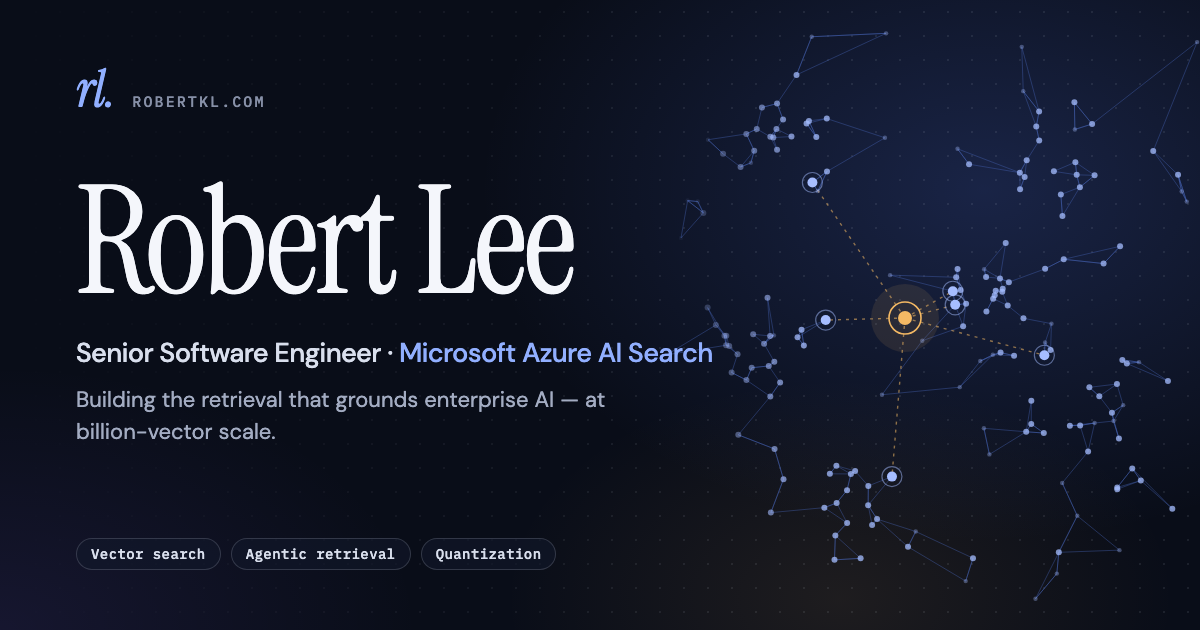
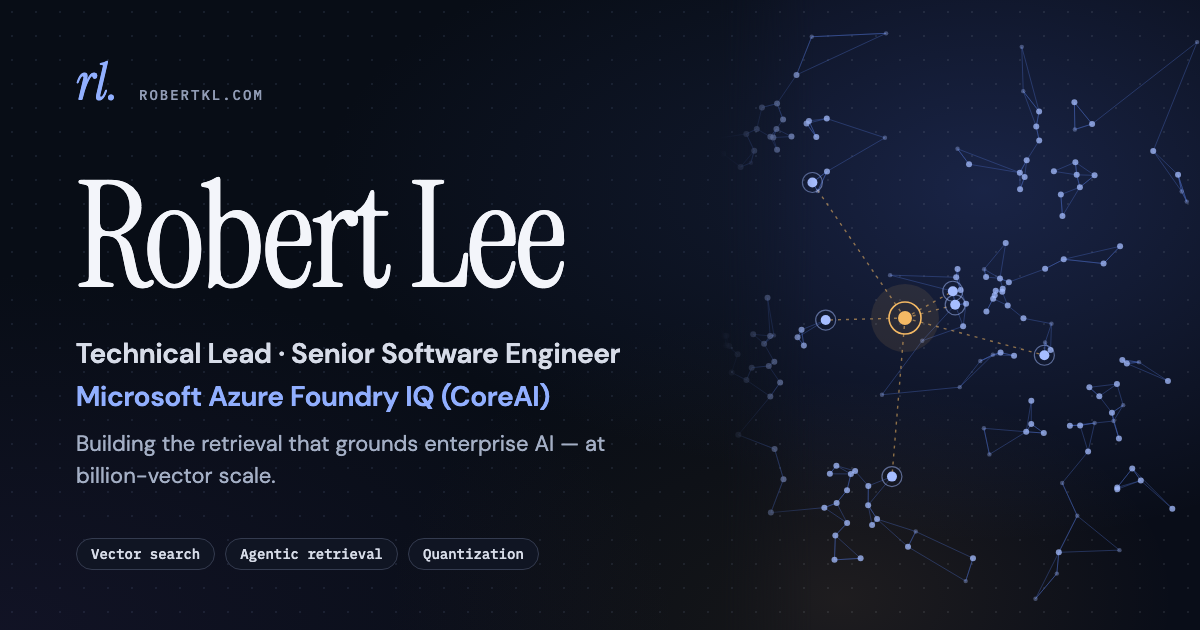
update

diff --git a/chat-content.js b/chat-content.js
@@ -31,52 +31,52 @@ window.HeroChatContent = (function () {
   var VARIANTS = [
     {
       thought: "Lead with technical leadership and vector-search diversity's pre-shipping performance gains. Keep those distinct from quantization's workload-dependent customer savings, and connect both to research-to-production delivery of agentic filter and boost generation.",
-      answer: "Hi! I'm Robert, a Senior Software Engineer on Microsoft Azure AI Search. I'm the technical lead for a team of six engineers and scientists delivering vector-search diversity, with 4.68\u00d7 better latency and 85.6% less memory before shipping. I also led agentic-retrieval filter and boost generation into production and drove vector quantization to general availability, delivering 8\u201332\u00d7 customer cost savings depending on the workload.",
+      answer: "Hi! I'm Robert, a Senior Software Engineer at Microsoft Azure Foundry IQ (CoreAI). I'm the technical lead for a team of six engineers and scientists delivering vector-search diversity, with 4.68\u00d7 better latency and 85.6% less memory before shipping. I also led agentic-retrieval filter and boost generation into production and drove vector quantization to general availability, delivering 8\u201332\u00d7 customer cost savings depending on the workload.",
       docs: ['Vector diversity capability', 'Team technical leadership', 'Filter generation', 'Lucene boosts', 'Scalar quantization']
     },
     {
       thought: "Connect vector search and HNSW graph-search engineering to relevance and production performance. Explain current search-diversity work through result coverage, and connect shipped natural-language filters and binary quantization to customer capabilities and cost.",
-      answer: "Hi, I'm Robert, a Senior Software Engineer on Microsoft Azure AI Search. My work spans vector search and HNSW graph search, with a focus on relevance, performance, and production scale. I lead technical delivery of vector-search diversity to improve result coverage, led natural-language filter generation into production, and helped lower search costs through vector quantization.",
+      answer: "Hi, I'm Robert, a Senior Software Engineer at Microsoft Azure Foundry IQ (CoreAI). My work spans vector search and HNSW graph search, with a focus on relevance, performance, and production scale. I lead technical delivery of vector-search diversity to improve result coverage, led natural-language filter generation into production, and helped lower search costs through vector quantization.",
       docs: ['HNSW graph search', 'Redundancy reduction', 'Filter generation', 'Binary quantization']
     },
     {
       thought: "Make technical leadership concrete: team size, leadership buy-in, cross-org alignment, greenfield architecture, and investment decisions. Pair vector-search diversity ownership with research-to-production delivery of agentic filter and boost generation.",
-      answer: "Hi, I'm Robert, a Senior Software Engineer on Microsoft Azure AI Search. I'm the technical lead for a team of six engineers and scientists delivering vector-search diversity. I own technical vision and end-to-end delivery, from leadership buy-in and cross-org alignment to greenfield distributed architecture and technical investment decisions. I also led agentic-retrieval filter and boost generation from research into production.",
+      answer: "Hi, I'm Robert, a Senior Software Engineer at Microsoft Azure Foundry IQ (CoreAI). I'm the technical lead for a team of six engineers and scientists delivering vector-search diversity. I own technical vision and end-to-end delivery, from leadership buy-in and cross-org alignment to greenfield distributed architecture and technical investment decisions. I also led agentic-retrieval filter and boost generation from research into production.",
       docs: ['Team technical leadership', 'Distributed execution', 'Filter generation', 'Lucene boosts']
     },
     {
       thought: "Lead with quantization's shipped cost and latency impact, qualified by workload. Keep preview-to-general-availability ownership explicit, then connect that delivery record to technical leadership for the current vector-search diversity effort.",
-      answer: "Hi, I'm Robert, a Senior Software Engineer on Microsoft Azure AI Search. I drove vector quantization from preview to general availability, delivering 8\u201332\u00d7 customer cost savings and up to 20\u00d7 lower latency depending on the workload. Today I'm the technical lead for a team of six engineers and scientists delivering vector-search diversity to improve result coverage and reduce redundancy.",
+      answer: "Hi, I'm Robert, a Senior Software Engineer at Microsoft Azure Foundry IQ (CoreAI). I drove vector quantization from preview to general availability, delivering 8\u201332\u00d7 customer cost savings and up to 20\u00d7 lower latency depending on the workload. Today I'm the technical lead for a team of six engineers and scientists delivering vector-search diversity to improve result coverage and reduce redundancy.",
       docs: ['Scalar quantization', 'Binary quantization', 'Team technical leadership', 'Redundancy reduction']
     },
     {
       thought: "Show systems depth across HNSW graph search, SIMD distance kernels, billions of embeddings, and distributed algorithm design. Preserve team attribution for broad adoption, and name the seven innovations and production constraints without inventing their internals.",
-      answer: "Hi, I'm Robert, a Senior Software Engineer on Microsoft Azure AI Search. My work spans HNSW graph search and SIMD-optimized vector-distance kernels, helping scale search across billions of embeddings. For vector-search diversity, I rearchitected a state-of-the-art research algorithm for distributed execution and drove seven targeted innovations for hyperscalability, durability, corpus drift, availability, and performance.",
+      answer: "Hi, I'm Robert, a Senior Software Engineer at Microsoft Azure Foundry IQ (CoreAI). My work spans HNSW graph search and SIMD-optimized vector-distance kernels, helping scale search across billions of embeddings. For vector-search diversity, I rearchitected a state-of-the-art research algorithm for distributed execution and drove seven targeted innovations for hyperscalability, durability, corpus drift, availability, and performance.",
       docs: ['HNSW graph search', 'SIMD distance', 'Vector search at scale', 'Distributed execution']
     },
     {
       thought: "Connect governed enterprise grounding and filter and boost generation to workload benchmarking. Name both agentic retrieval and diversity-aware search in the serverless billing scope, and keep the 80% memory reduction qualified to key paths.",
-      answer: "Hi, I'm Robert, a Senior Software Engineer on Microsoft Azure AI Search. I ground agents in governed enterprise knowledge and led filter and boost generation into production. I also architected benchmarks covering CPU, memory, and throughput to establish the serverless billing formula for agentic retrieval and diversity-aware search, reducing memory by 80% on key paths.",
+      answer: "Hi, I'm Robert, a Senior Software Engineer at Microsoft Azure Foundry IQ (CoreAI). I ground agents in governed enterprise knowledge and led filter and boost generation into production. I also architected benchmarks covering CPU, memory, and throughput to establish the serverless billing formula for agentic retrieval and diversity-aware search, reducing memory by 80% on key paths.",
       docs: ['RAG grounding', 'Filter generation', 'Lucene boosts', 'Workload benchmarks', 'Billing model']
     },
     {
       thought: "Use research to production as the connecting thread. Vector-search diversity preserved algorithmic strengths under distributed execution; agentic filter generation bounded an unbounded problem and used production evidence to align teams.",
-      answer: "Hi, I'm Robert, a Senior Software Engineer on Microsoft Azure AI Search. I turn retrieval research into production systems. For vector-search diversity, I rearchitected a research algorithm for distributed execution while preserving its strengths. For agentic retrieval, I reformulated unbounded filter synthesis as a bounded, verifiable operator set, demonstrated real-workload coverage through production analysis, and brought research and product teams to consensus.",
+      answer: "Hi, I'm Robert, a Senior Software Engineer at Microsoft Azure Foundry IQ (CoreAI). I turn retrieval research into production systems. For vector-search diversity, I rearchitected a research algorithm for distributed execution while preserving its strengths. For agentic retrieval, I reformulated unbounded filter synthesis as a bounded, verifiable operator set, demonstrated real-workload coverage through production analysis, and brought research and product teams to consensus.",
       docs: ['Vector diversity capability', 'Distributed execution', 'Bounded operator set', 'Filter generation']
     },
     {
       thought: "Show end-to-end ownership through vector-search diversity leadership, a shared core that enabled three engineers to work in parallel, and benchmarking that established serverless billing for two retrieval capabilities.",
-      answer: "Hi, I'm Robert, a Senior Software Engineer on Microsoft Azure AI Search. I'm the technical lead for a team of six engineers and scientists delivering vector-search diversity. I consolidated infrastructure into a shared core and decoupled mechanisms so three engineers could work in parallel. I also architected workload benchmarks to establish the serverless billing formula for agentic retrieval and diversity-aware search.",
+      answer: "Hi, I'm Robert, a Senior Software Engineer at Microsoft Azure Foundry IQ (CoreAI). I'm the technical lead for a team of six engineers and scientists delivering vector-search diversity. I consolidated infrastructure into a shared core and decoupled mechanisms so three engineers could work in parallel. I also architected workload benchmarks to establish the serverless billing formula for agentic retrieval and diversity-aware search.",
       docs: ['Team technical leadership', 'Vector diversity capability', 'Workload benchmarks', 'Billing model']
     },
     {
       thought: "Lead with current technical leadership, then show applied-ML breadth through the human pose estimation project. Retain training from random initialization and ownership of the model architecture and cloud pipeline as concrete engineering signals.",
-      answer: "Hi, I'm Robert, a Senior Software Engineer on Microsoft Azure AI Search. I'm the technical lead for a team of six engineers and scientists delivering vector-search diversity. My background also includes machine learning: I led a student team that trained a human pose estimation network from scratch, where I owned the model architecture and cloud training pipeline.",
+      answer: "Hi, I'm Robert, a Senior Software Engineer at Microsoft Azure Foundry IQ (CoreAI). I'm the technical lead for a team of six engineers and scientists delivering vector-search diversity. My background also includes machine learning: I led a student team that trained a human pose estimation network from scratch, where I owned the model architecture and cloud training pipeline.",
       docs: ['Vector diversity capability', 'Team technical leadership', 'Pose estimation']
     },
     {
       thought: "Connect retrieval quality, production scale, and cost. Use current vector-search diversity, shipped agentic filter and boost generation, HNSW graph search, and quantization as concrete evidence of that focus, not as an unexplained technology list.",
-      answer: "Hi, I'm Robert, a Senior Software Engineer on Microsoft Azure AI Search. My focus is retrieval quality at production scale. I lead technical delivery of vector-search diversity for broader evidence, led agentic filter and boost generation into production, and helped scale vector search, including HNSW graph search, across billions of embeddings. Quantization delivered 8\u201332\u00d7 cost savings depending on the workload.",
+      answer: "Hi, I'm Robert, a Senior Software Engineer at Microsoft Azure Foundry IQ (CoreAI). My focus is retrieval quality at production scale. I lead technical delivery of vector-search diversity for broader evidence, led agentic filter and boost generation into production, and helped scale vector search, including HNSW graph search, across billions of embeddings. Quantization delivered 8\u201332\u00d7 cost savings depending on the workload.",
       docs: ['Vector diversity capability', 'Filter generation', 'Lucene boosts', 'Vector search at scale', 'HNSW graph search', 'Binary quantization']
     }
   ];
@@ -176,7 +176,7 @@ window.HeroChatContent = (function () {
       variants: [
         {
           thought: "Keep Senior Software Engineer as the role title while making technical leadership concrete: vision, leadership buy-in, cross-org alignment, greenfield architecture, investment decisions, and hands-on delivery.",
-          answer: "I'm a Senior Software Engineer on Microsoft Azure AI Search and the technical lead for a team of six engineers and scientists delivering a novel vector-search diversity capability. I set the technical direction and own delivery end to end, from leadership buy-in and cross-org alignment to greenfield architecture, technical investment decisions, and hands-on implementation."
+          answer: "I'm a Senior Software Engineer at Microsoft Azure Foundry IQ (CoreAI) and the technical lead for a team of six engineers and scientists delivering a novel vector-search diversity capability. I set the technical direction and own delivery end to end, from leadership buy-in and cross-org alignment to greenfield architecture, technical investment decisions, and hands-on implementation."
         },
         {
           thought: "Show how system-wide architecture decisions enabled the team: resolve scalability, recovery, and extensibility tradeoffs, consolidate infrastructure, and decouple shared mechanisms for three engineers' parallel execution. Retain technical direction and hands-on ownership.",
@@ -409,7 +409,7 @@ window.HeroChatContent = (function () {
       variants: [
         {
           thought: "Explain the service and Robert's own scope without replacing them with an analogy. Define vector search briefly, keep the scale and team technical leadership, and avoid claiming that the search engine literally understands a request.",
-          answer: "I'm a Senior Software Engineer on Microsoft Azure AI Search, a service businesses use to search their documents and power AI apps. I helped scale vector search, which compares numerical representations of text to find related meanings, not just matching words. Today I'm the technical lead for a team of six engineers and scientists delivering vector-search diversity to reduce repetitive search results."
+          answer: "I'm a Senior Software Engineer at Microsoft Azure Foundry IQ (CoreAI), building retrieval systems for business documents and AI apps. I helped scale vector search, which compares numerical representations of text to find related meanings, not just matching words. Today I'm the technical lead for a team of six engineers and scientists delivering vector-search diversity to reduce repetitive search results."
         },
         {
           thought: "Keep a concrete example, but pair it with the engineering work. Vector search can match related meanings rather than exact words; Robert helped scale it across billions of embeddings and is now technical lead for the six-person vector-search diversity team.",

diff --git a/index.html b/index.html
@@ -18,27 +18,27 @@
         document.documentElement.setAttribute('data-reduced-effects', String(reducedEffects));
       })();
     </script>
-    <title>Robert Lee — Senior Software Engineer @ Microsoft (Azure AI Search)</title>
-    <meta name="description" content="Robert Lee is a Senior Software Engineer at Microsoft Azure AI Search and technical lead for a team of six engineers and scientists delivering vector-search diversity. Explore his work in distributed retrieval, agentic systems, and machine learning.">
+    <title>Robert Lee — Senior Software Engineer &amp; Technical Lead @ Microsoft CoreAI</title>
+    <meta name="description" content="Robert Lee is a Technical Lead and Senior Software Engineer at Microsoft Azure Foundry IQ (CoreAI), delivering vector-search diversity with a team of six engineers and scientists. Explore his work in distributed retrieval, agentic systems, and machine learning.">
     <meta name="author" content="Robert Lee">
     <meta name="robots" content="index, follow">
     <meta name="theme-color" content="#f5f5f0">
     <link rel="canonical" href="https://www.robertkl.com/">
     <meta property="og:type" content="website">
     <meta property="og:site_name" content="Robert Lee">
-    <meta property="og:title" content="Robert Lee — Senior Software Engineer @ Microsoft">
-    <meta property="og:description" content="Senior Software Engineer at Microsoft Azure AI Search. Interactive demos of vector-search diversity, agentic retrieval, and quantization.">
+    <meta property="og:title" content="Robert Lee — Senior Software Engineer &amp; Technical Lead @ Microsoft CoreAI">
+    <meta property="og:description" content="Technical Lead and Senior Software Engineer at Microsoft Azure Foundry IQ (CoreAI). Building billion-scale retrieval systems for enterprise AI. Explore vector-search diversity, agentic retrieval, and quantization.">
     <meta property="og:url" content="https://www.robertkl.com/">
     <meta property="og:image" content="https://www.robertkl.com/assets/og.png">
     <meta property="og:image:type" content="image/png">
     <meta property="og:image:width" content="1200">
     <meta property="og:image:height" content="630">
-    <meta property="og:image:alt" content="Robert Lee, Senior Software Engineer, Microsoft Azure AI Search, beside an embedding field where a query reaches diverse neighbours">
+    <meta property="og:image:alt" content="Robert Lee, Technical Lead and Senior Software Engineer, Microsoft CoreAI, beside an embedding field where a query reaches diverse neighbours">
     <meta name="twitter:card" content="summary_large_image">
-    <meta name="twitter:title" content="Robert Lee — Senior Software Engineer @ Microsoft">
-    <meta name="twitter:description" content="Senior Software Engineer at Microsoft Azure AI Search. Interactive demos of vector-search diversity, agentic retrieval, and quantization.">
+    <meta name="twitter:title" content="Robert Lee — Senior Software Engineer &amp; Technical Lead @ Microsoft CoreAI">
+    <meta name="twitter:description" content="Technical Lead and Senior Software Engineer at Microsoft CoreAI. Building billion-scale retrieval systems for enterprise AI. Explore vector-search diversity, agentic retrieval, and quantization.">
     <meta name="twitter:image" content="https://www.robertkl.com/assets/og.png">
-    <meta name="twitter:image:alt" content="Robert Lee, Senior Software Engineer, Microsoft Azure AI Search, beside an embedding field where a query reaches diverse neighbours">
+    <meta name="twitter:image:alt" content="Robert Lee, Technical Lead and Senior Software Engineer, Microsoft CoreAI, beside an embedding field where a query reaches diverse neighbours">
     <script type="application/ld+json">
       {
         "@context": "https://schema.org",
@@ -46,8 +46,8 @@
         "name": "Robert Lee",
         "url": "https://www.robertkl.com/",
         "image": "https://www.robertkl.com/assets/me.jpg",
-        "jobTitle": "Senior Software Engineer",
-        "worksFor": {"@type": "Organization", "name": "Microsoft"},
+        "jobTitle": "Technical Lead and Senior Software Engineer",
+        "worksFor": {"@type": "Organization", "name": "Microsoft CoreAI", "parentOrganization": {"@type": "Organization", "name": "Microsoft"}},
         "sameAs": ["https://www.linkedin.com/in/robert-k-lee/", "https://github.com/robertklee"],
         "knowsAbout": ["Vector Search", "Graph Search", "Information Retrieval", "Retrieval Augmented Generation", "Agentic Retrieval", "Machine Learning", "Computer Vision", "Distributed Systems"]
       }
@@ -109,7 +109,7 @@
         <div class="hero-backdrop" data-hero-backdrop aria-hidden="true"></div>
         <div class="hero-viewport">
           <h1 id="hero-name">Robert Lee</h1>
-          <p class="hero-tagline">Senior Software Engineer · Microsoft Azure AI Knowledge</p>
+          <p class="hero-tagline">Technical Lead · Senior Software Engineer · Microsoft CoreAI</p>
           <div id="app"></div>
           <noscript><p class="hero-noscript">I build the retrieval systems that help enterprise AI find the right evidence. The full profile is below.</p></noscript>
           <div class="hero-scroll-fade" aria-hidden="true"></div>
@@ -131,7 +131,7 @@
             <figcaption>Redmond, WA</figcaption>
           </figure>
           <div class="cv-about-copy">
-              <p><strong>Senior Software Engineer @ Microsoft, Azure AI Search</strong> — building the retrieval that grounds enterprise AI in the right knowledge at billion-vector scale.</p>
+              <p><strong>Technical Lead &amp; Senior Software Engineer @ Microsoft CoreAI</strong> — building the retrieval that grounds enterprise AI in the right knowledge at billion-vector scale.</p>
               <p>I'm the <strong>technical lead for a team of six engineers and scientists</strong> delivering a novel vector-search diversity capability. I own the technical vision and end-to-end delivery, from leadership buy-in and cross-org alignment to distributed architecture and hands-on implementation. Before shipping, I improved latency by <strong>4.68×</strong> and reduced memory by <strong>85.6%</strong> through profiling-led optimizations combining SIMD acceleration with improved allocation efficiency, optimized data movement, and tighter control of intermediate-state lifetimes.</p>
     <details class="about-more"><summary>More about me</summary><p>My work sits at the intersection of <strong>information retrieval</strong>, <strong>vector search</strong>, and <strong>applied machine learning</strong> — improving search relevance, grounding LLM agents in governed enterprise knowledge, and turning research prototypes into production <strong>agentic-retrieval</strong> and <strong>RAG</strong> capabilities. I led research-to-production delivery for agentic-retrieval filter and boost generation, and architected workload benchmarks to establish the <strong>serverless billing formula</strong> for agentic retrieval and diversity-aware search, reducing memory by <strong>80% on key paths</strong>.</p>
 <p>Earlier, as a <strong>Software Engineer II</strong>, I helped build and scale <strong>vector search and quantization</strong> for broad production adoption. My contributions spanned quantization techniques that cut customer costs by <strong>8–32×</strong> and latency by up to <strong>20×</strong>, a hybrid-search relevance stack, and an extensible facet-aggregation engine built on formal grammar and parsing. I care deeply about <strong>performance, correctness, and distributed systems</strong>, and I often investigate complex production incidents.</p>
@@ -157,12 +157,12 @@
         <header class="career-map-head">
           <div>
             <h3 id="career-map-title">Broader scope. <em>Deeper ownership.</em></h3>
-            <p id="career-map-desc">The progression at a glance: hands-on engineering, systems at scale, and now Senior Software Engineer and technical lead for a team of six engineers and scientists delivering vector-search diversity.</p>
+            <p id="career-map-desc">The progression at a glance: hands-on engineering, systems at scale, and now Senior Software Engineer at Microsoft CoreAI and technical lead for a team of six engineers and scientists delivering vector-search diversity.</p>
           </div>
           <p class="career-map-org"><img src="/assets/microsoft-mark.svg" alt="" width="18" height="18"><span>Microsoft</span></p>
         </header>
         <div class="cm-trajectory">
-          <p class="cm-chart-heading"><strong>Azure AI Search</strong><span>Scope &amp; ownership grow &nearr;</span></p>
+          <p class="cm-chart-heading"><strong>Azure AI Search &rarr; Microsoft CoreAI</strong><span>Scope &amp; ownership grow &nearr;</span></p>
           <div class="cm-plot">
             <svg class="cm-curve" viewBox="0 0 1200 300" preserveAspectRatio="none" aria-hidden="true" focusable="false">
               <defs>
@@ -182,10 +182,10 @@
             </svg>
             <ol class="cm-milestones" aria-label="Career milestones, newest first">
               <li class="cm-step cm-step-now" style="--column: 6; --rise: 258; --x: 92%; --y: 12%; --i: 0">
-                <a href="#profile-work-entry-1" aria-controls="profile-work-entry-1" aria-label="Senior Software Engineer, Azure AI Search, 2025 to now. Technical lead for a team of six engineers and scientists delivering vector-search diversity. Open full experience.">
+                <a href="#profile-work-entry-1" aria-controls="profile-work-entry-1" aria-label="Technical Lead and Senior Software Engineer, Azure Foundry IQ (CoreAI), 2025 to now. Technical lead for a team of six engineers and scientists delivering vector-search diversity. Open full experience.">
                   <span class="cm-stage"><span class="cm-scope">Technical direction</span><span class="cm-node" aria-hidden="true"></span></span>
-                  <span class="cm-team" aria-hidden="true"></span>
-                  <span class="cm-label"><span class="cm-role"><span class="cm-role-full">Senior Software Engineer</span><span class="cm-role-short">Senior</span></span><span class="cm-when">2025–now</span></span>
+                  <span class="cm-team">Foundry IQ · CoreAI</span>
+                  <span class="cm-label"><span class="cm-role"><span class="cm-role-full">Technical Lead · Senior Software Engineer</span><span class="cm-role-short">Tech Lead</span></span><span class="cm-when">2025–now</span></span>
                   <span class="cm-areas"><span>Technical lead</span><span>Vector diversity</span><span>Agentic retrieval</span><span>Research to production</span></span>
                 </a>
               </li>
@@ -238,10 +238,10 @@
       <div id="work" aria-label="Role-linked work examples">
         <section class="experience-role" aria-labelledby="experience-role-1-title">
     <header class="experience-role-heading">
-      <p class="eyebrow">Microsoft Azure AI Search · 2025–present</p>
-      <h3 id="experience-role-1-title">Senior Software Engineer</h3>
+      <p class="eyebrow">Microsoft Azure Foundry IQ (CoreAI) · 2025–present</p>
+      <h3 id="experience-role-1-title">Technical Lead · Senior Software Engineer</h3>
       <p>Technical lead for a team of six engineers and scientists delivering vector-search diversity, from technical vision to production engineering. Also led agentic-retrieval filter and boost generation, integrated retrieval into agents, and established serverless billing through workload benchmarking.</p>
-      <nav class="experience-example-links" aria-label="Senior Software Engineer · 2025–present role details and examples">
+      <nav class="experience-example-links" aria-label="Technical Lead · Senior Software Engineer · 2025–present role details and examples">
     <a class="experience-details-link" href="#profile-work-entry-1" aria-controls="profile-work-entry-1">Full role details <span aria-hidden="true">↓</span></a>
     <a href="#work-diversity">Vector-search diversity <span aria-hidden="true">↓</span></a>
 <a href="#work-agentic">Agentic retrieval <span aria-hidden="true">↓</span></a>
@@ -252,7 +252,7 @@
     <p><span class="chapter-num">01</span><span>Selected contribution</span></p>
     <a href="#profile-work-entry-1">
       <img src="/assets/microsoft-mark.svg" alt="" width="16" height="16">
-      <span><strong>Microsoft Azure AI Search</strong><span>Senior Software Engineer · 2025–present</span></span>
+      <span><strong>Microsoft Azure Foundry IQ (CoreAI)</strong><span>Technical Lead · Senior Software Engineer · 2025–present</span></span>
       <span class="chapter-role-link">Role details <span aria-hidden="true">↗</span></span>
     </a>
   </div>
@@ -308,7 +308,7 @@
     <p><span class="chapter-num">02</span><span>Selected contribution</span></p>
     <a href="#profile-work-entry-1">
       <img src="/assets/microsoft-mark.svg" alt="" width="16" height="16">
-      <span><strong>Microsoft Azure AI Search</strong><span>Senior Software Engineer · 2025–present</span></span>
+      <span><strong>Microsoft Azure Foundry IQ (CoreAI)</strong><span>Technical Lead · Senior Software Engineer · 2025–present</span></span>
       <span class="chapter-role-link">Role details <span aria-hidden="true">↗</span></span>
     </a>
   </div>
@@ -634,13 +634,13 @@
       <details class="cv-details" id="profile-work-entry-1">
       <summary>
       <span class="cv-summary-copy">
-      <span class="cv-work-stage"><span class="cv-work-scope">Technical leadership</span><span class="cv-work-current">Current role</span></span>
+      <span class="cv-work-stage"><span class="cv-work-scope">Technical Lead</span><span class="cv-work-current">Current role</span></span>
       <span class="cv-record-heading">
-      <span class="cv-record-title" role="heading" aria-level="4">Senior Software Engineer<span class="cv-sr-only">, Microsoft Azure AI Search</span></span>
+      <span class="cv-record-title" role="heading" aria-level="4">Technical Lead · Senior Software Engineer<span class="cv-sr-only">, Microsoft Azure Foundry IQ (CoreAI)</span></span>
       </span>
       <span class="cv-record-meta">
       <span class="cv-date">Mar. 2025 - Present | Redmond, WA</span>
-      <span class="cv-employer-team" aria-hidden="true"><strong>Microsoft</strong> · Azure AI Search</span>
+      <span class="cv-employer-team" aria-hidden="true"><strong>Microsoft</strong> · Azure Foundry IQ (CoreAI)</span>
       </span>
       <span class="cv-teaser">Technical lead for a team of six engineers and scientists delivering a novel <strong>vector-search diversity capability</strong>, with end-to-end ownership and pre-shipping gains of <strong>4.68× in latency</strong> and <strong>85.6% less memory</strong>.</span>
       <span class="cv-work-tags"><span>Vector diversity</span><span>Agentic retrieval</span><span>Research to production</span></span>
@@ -649,7 +649,7 @@
       <span class="cv-plus" aria-hidden="true">+</span>
       </summary>
       <div class="cv-record-body">
-      <nav class="experience-example-links" aria-label="Senior Software Engineer selected contributions">
+      <nav class="experience-example-links" aria-label="Technical Lead · Senior Software Engineer selected contributions">
         <a href="#work-diversity">Vector-search diversity <span aria-hidden="true">↑</span></a>
         <a href="#work-agentic">Agentic retrieval <span aria-hidden="true">↑</span></a>
       </nav>

diff --git a/tests/vector-demos.spec.js b/tests/vector-demos.spec.js
@@ -788,7 +788,7 @@ test.describe('touch query placement', () => {
 });
 
 test('current-role copy describes team technical leadership and qualifies search diversity throughout the chat', async ({ page }) => {
-  await expect(page.locator('#experience-role-1-title')).toHaveText('Senior Software Engineer');
+  await expect(page.locator('#experience-role-1-title')).toHaveText('Technical Lead · Senior Software Engineer');
   for (const selector of ['.cv-about-copy', '#career-map-desc', '.experience-role-heading', '#profile-work-entry-1', '#work-diversity .chapter-copy']) {
     await expect(page.locator(selector).first()).toContainText(/technical lead for a team of six engineers and scientists/i);
   }
@@ -940,7 +940,7 @@ test('experience, examples, full role details, and biography stay connected', as
   ]);
   await expect(page.locator('#profile-experience #profile-work-records > .cv-record')).toHaveCount(6);
   await expect(page.locator('#profile-work-records .cv-record-title')).toHaveText([
-    'Senior Software Engineer, Microsoft Azure AI Search', 'Software Engineer II, Microsoft Azure AI Search',
+    'Technical Lead · Senior Software Engineer, Microsoft Azure Foundry IQ (CoreAI)', 'Software Engineer II, Microsoft Azure AI Search',
     'Software Engineer, Microsoft Azure AI Search', 'Software Engineer Intern, Microsoft Azure Cognitive Search',
     'Software Engineer Intern, Microsoft Azure Search (AI Platform)', 'Software Developer Intern, Microsoft Garage'
   ]);

diff --git a/tests/hero-entrance.spec.js b/tests/hero-entrance.spec.js
@@ -1856,7 +1856,7 @@ test('all ten opening answers foreground standout work and keep minor features o
     expect(content.VARIANTS).toHaveLength(10);
     const variant = content.VARIANTS[index];
     expect([variant.thought, variant.answer, ...variant.docs].join(' ')).not.toMatch(minorFeatures);
-    expect(variant.answer).toContain('Senior Software Engineer on Microsoft Azure AI Search');
+    expect(variant.answer).toContain('Senior Software Engineer at Microsoft Azure Foundry IQ (CoreAI)');
     expect(variant.answer).toMatch(/vector-search diversity|agentic/i);
     expect(variant.answer.trim().split(/\s+/).length).toBeLessThanOrEqual(75);
     expect(variant.answer).toMatch(/\b(?:retrieval|quantization|HNSW|SIMD|distributed|pose estimation)\b/i);

diff --git a/tests/career-scroll.spec.js b/tests/career-scroll.spec.js
@@ -202,8 +202,8 @@ test('editorial glow is reserved for three achievements across themes and layout
   const accents = page.locator('.card-accent');
   await expect(accents).toHaveCount(3);
   await expect(accents.locator('.cv-record-title, h3')).toHaveText([
-    'Senior Software Engineer, Microsoft Azure AI Search',
-    "Founder & Program Director, Senior's Digital Literacy Program, University of Victoria",
+    'Technical Lead · Senior Software Engineer, Microsoft Azure Foundry IQ (CoreAI)',
+    "Founder & Program Director, Seniors' Digital Literacy Program, University of Victoria",
     'Schulich Leader Scholarship',
   ]);
   await expect(page.locator('#profile-work-entry-2').locator('..')).not.toHaveClass(/card-accent/);

diff --git a/README.md b/README.md
@@ -8,7 +8,7 @@ A single-page profile that demonstrates retrieval as well as describing it. A sc
 2. **About:** a portrait and a short introduction, with the longer biography available under "More about me."
 3. **Experience & selected work:** the original spacious career map on desktop, with contribution labels above the exponential-style curve and role, date, team, and area labels below it. When the top of the card enters view, it fades in and slides upward. On desktop this also starts the SVG stroke, shading, and newest-to-oldest milestone reveal; at 860px and below, those wait until at least a quarter of the curve itself is visible. Stroke dash lengths are measured in screen pixels and updated on resize so the desktop and mobile curves share the same pacing. The animation runs once; reduced motion or keyboard focus shows the complete chart immediately. The detailed role cards show scope labels, tags, a highlighted current role, and a dashed Garage card on both desktop and mobile. Each role names Microsoft prominently beside its team. Selecting a milestone opens and navigates to its complete experience. Microsoft Garage stays outside the Azure AI Search trajectory: a separate desktop column or a dashed mobile link and card. The curve is qualitative, not a measured performance scale or a time-proportional chart. Keep desktop SVG coordinates, milestone `--column`/`--rise` values, and the CSS plot height in sync; mobile `--x`/`--y` percentages match the mobile path, scaled into the shared SVG viewBox. One milestone list serves both layouts, in newest-first document order; the chart's visual progression runs left to right. The curve geometry and animation pacing are unchanged.
 
-   The current role introduces Vector diversity and Agentic retrieval; Software Engineer II introduces Quantization, SIMD, and HNSW. Robert is a Senior Software Engineer and the technical lead for a team of six engineers and scientists building a new vector-search diversity capability. Keep the biography, career map, role details, chat variants, citations, and field labels consistent: give team technical leadership appropriate weight, with technical direction, end-to-end delivery ownership, and hands-on implementation, without implying an engineering-manager title. Qualify diversity as vector diversity or search diversity. The highlighted role headers link to full role details rather than embedding those records among the examples. All six expandable records live together, newest first, in **Detailed experience** at `#profile-experience`, with `#profile-work-records` holding only the records and their expand-all control beside that section's heading. The two newest entries use the same role/date/team/teaser structure as the earlier roles and link back to their selected contributions. Existing `#profile-work-entry-*` anchors remain stable: role links, chapter links, career milestones, and chat citations open and navigate to the corresponding entry. Each chapter prominently distinguishes Robert's contribution from its interactive concept illustration and links to its full role details:
+   The current role introduces Vector diversity and Agentic retrieval; Software Engineer II introduces Quantization, SIMD, and HNSW. Robert is a Technical Lead and Senior Software Engineer at Microsoft Azure Foundry IQ (CoreAI), with technical leadership for a team of six engineers and scientists building a new vector-search diversity capability. Earlier role names and Azure AI Search product references retain their historical branding. Keep the biography, career map, role details, chat variants, citations, and field labels consistent: give team technical leadership appropriate weight, with technical direction, end-to-end delivery ownership, and hands-on implementation, without implying an engineering-manager title. Qualify diversity as vector diversity or search diversity. The highlighted role headers link to full role details rather than embedding those records among the examples. All six expandable records live together, newest first, in **Detailed experience** at `#profile-experience`, with `#profile-work-records` holding only the records and their expand-all control beside that section's heading. The two newest entries use the same role/date/team/teaser structure as the earlier roles and link back to their selected contributions. Existing `#profile-work-entry-*` anchors remain stable: role links, chapter links, career milestones, and chat citations open and navigate to the corresponding entry. Each chapter prominently distinguishes Robert's contribution from its interactive concept illustration and links to its full role details:
    - **Vector diversity:** travel-planning, shopping, grounding, and feed scenarios with a search-diversity slider over a neighbourhood graph.
    - **Agentic retrieval:** a natural-language request becomes OData filters (`eq`, `ne`, `and`, `or` over categorical fields) and Lucene boosts; anything outside that set is left to ranking. Validation repeats while at least half the operator list is visible, with a six-second completed-result hold and Pause/Resume and Replay controls.
    - **Quantization:** a value ladder and a memory-at-scale meter. On first view, the value sweeps across zero and back, showing FP32 motion, INT8 steps, and the binary sign change; using the value slider cancels autoplay.
